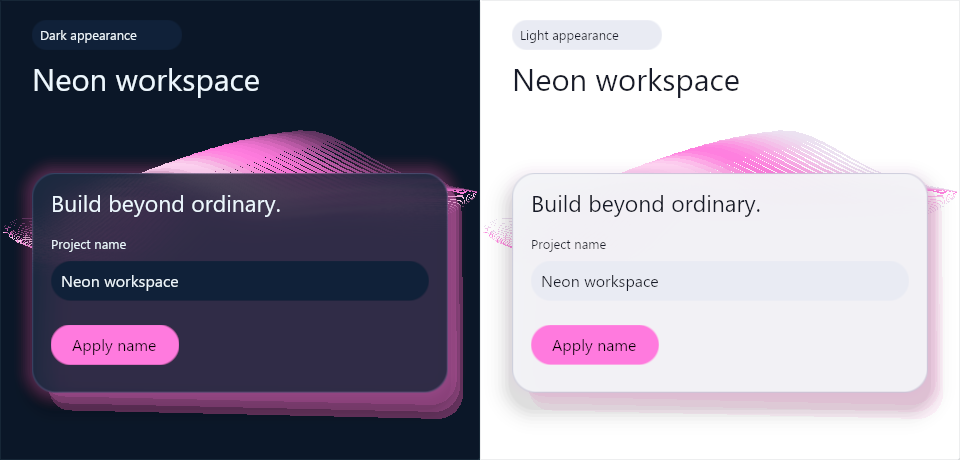
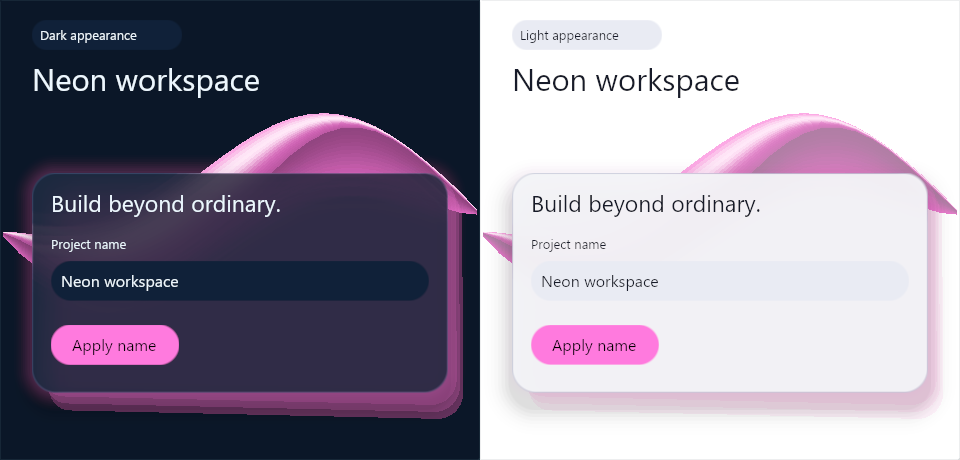
Shade SilkRibbon as a continuous folded satin surface

diff --git a/src/swirui/widgets/silk_ribbon.py b/src/swirui/widgets/silk_ribbon.py
@@ -15,30 +15,31 @@ def _mix(a: Color, b: Color, weight: float) -> Color:
                  a.b + (b.b - a.b) * weight, a.a + (b.a - a.a) * weight)
 
 
+_FACE_BANDS = 16
+
+
 @lru_cache(maxsize=12)
 def _weave(width: float, height: float) -> tuple[Path2D, ...]:
-    # Each thread is an x-monotone band. Neighbouring sinusoids change phase
-    # across the fabric, so the folds cross without self-intersecting paths.
-    paths = []
-    for strand in range(28):
-        v = strand / 27
-        edge = []
-        lower_edge = []
-        for column in range(33):
-            u = column / 32
-            phase = u * math.tau * .96 + v * 2.6
-            y = .49 + .23 * math.sin(phase) + .15 * math.sin(phase * 1.7 - 1.2) + .17 * (v - .5)
-            envelope = .05 + .95 * math.sin(math.pi * u) ** .75
-            y = .54 + envelope * (y - .54) - .18 * (u - .5)
-            thickness = (.007 + .018 * math.sin(math.pi * u) ** 2) * envelope
+    # Two faces share a curved fold. Neighbouring bands reuse the exact edge so
+    # the backdrop cannot leak through the weave at fractional display scales.
+    edges: list[list[Point]] = [[] for _ in range(2 * _FACE_BANDS + 1)]
+    for column in range(29):
+        u = column / 28
+        center = .51 + .25 * math.sin(math.tau * (u + .06)) - .11 * (u - .5)
+        half_width = .012 + .20 * math.sin(math.pi * u) ** .72
+        top, bottom = center - half_width, center + half_width
+        fold = center + half_width * .89 * math.sin(math.tau * (u - .09))
+        for row, edge in enumerate(edges):
+            t = row / _FACE_BANDS
+            y = top + t * (fold - top) if t <= 1 else fold + (t - 1) * (bottom - fold)
             edge.append(Point(width * u, height * y))
-            lower_edge.append(Point(width * u, height * (y + thickness)))
-        paths.append(Path2D.horizontal_band(tuple(edge), tuple(lower_edge)))
-    return tuple(paths)
+    rows = [tuple(edge) for edge in edges]
+    return tuple(Path2D.horizontal_band(upper, lower)
+                 for upper, lower in zip(rows[:-1], rows[1:], strict=True))
 
 
 class SilkRibbon(Widget):
-    """Decorative folded strands, colored by the inherited theme. No animation timer."""
+    """Folded satin with an accent-colored face and a shaded reverse."""
 
     def build_scene_node(self) -> SceneNode:
         bounds = self.bounds
@@ -48,13 +49,16 @@ class SilkRibbon(Widget):
             return node
         theme = self.effective_theme or FUTURE_DARK
         accent = theme.surface_color("accent")
-        shadow = _mix(theme.surface_color("raised"), accent, .11)
-        glint = _mix(accent, Color(1, 1, 1), .58)
+        shadow = _mix(_mix(accent, Color(0, 0, 0), .72), theme.surface_color("raised"), .20)
+        glint = _mix(accent, Color(1, 1, 1), .76)
         paths = _weave(bounds.width, bounds.height)
         for index, path in enumerate(paths):
-            v = index / (len(paths) - 1)
-            color = _mix(shadow, accent, math.sin(math.pi * v) ** 2)
-            color = _mix(color, glint, math.exp(-((v - .72) / .13) ** 2))
+            v = (index % _FACE_BANDS + .5) / _FACE_BANDS
+            if index < _FACE_BANDS:
+                color = _mix(shadow, accent, .95 - .60 * v)
+                color = _mix(color, glint, math.exp(-((v - .27) / .23) ** 2))
+            else:
+                color = _mix(shadow, accent, .08 + .64 * v ** 1.6)
             node.children.append(SceneNode(f"{self.key}:thread:{index}", SceneNodeKind.PATH,
                                            bounds, path=path, fill=color, hit_testable=False))
         return node

diff --git a/tests/test_windows_surface_interaction.py b/tests/test_windows_surface_interaction.py
@@ -9,6 +9,7 @@ from swirui import (
     App,
     Button,
     Panel,
+    SilkRibbon,
     SurfaceInteraction,
     SurfaceStyle,
     ThemeSurface,
@@ -17,6 +18,44 @@ from swirui import (
 )
 from swirui.platforms import PlatformEvent, PlatformEventKind
 from swirui.rendering import Rect, WgpuRenderer
+
+
+@pytest.mark.skipif(sys.platform != "win32", reason="Windows/wgpu required")
+def test_satin_fold_is_continuous_across_dark_and_light_gpu_frames():
+    renderer = WgpuRenderer()
+    app = App(renderer=renderer)
+    window = app.add_window(Window(width=640, height=320))
+    root = Panel(bounds=Rect(0, 0, 640, 320), theme=FUTURE_DARK)
+    ribbon = SilkRibbon(bounds=Rect(18.25, 22.5, 554.75, 240))
+    root.add(ribbon)
+    mount(window, root)
+    try:
+        app.start()
+        app.process_events()
+        context = renderer._contexts[window.native_handle.value]
+        for theme, accent in ((FUTURE_DARK, "#28DEB0"), (FUTURE_LIGHT, "#E67434")):
+            root.theme = theme.with_accent(accent)
+            app.render_pending(app._frame_schedulers[window].stats.last_frame_time + 1)
+            width, _, pixels = context.read_scene_rgba()
+            top = round(ribbon.bounds.y * window.scale)
+            bottom = round(ribbon.bounds.bottom * window.scale)
+            for fraction in (.23, .51, .74):
+                x = round((ribbon.bounds.x + fraction * ribbon.bounds.width) * window.scale)
+                column = [tuple(pixels[(y * width + x) * 4:(y * width + x) * 4 + 3])
+                          for y in range(top, bottom)]
+                background = column[0]
+                assert column[-1] == background
+                painted = [y for y, rgb in enumerate(column) if rgb != background]
+                assert len(painted) > 20
+                assert painted[-1] - painted[0] + 1 == len(painted)
+                colors = {column[y] for y in painted}
+                assert len(colors) >= 10
+                if theme is FUTURE_DARK:
+                    assert any(g - r > 60 for r, g, _ in colors)
+                else:
+                    assert any(r - g > 40 for r, g, _ in colors)
+    finally:
+        app.stop()
 
 
 @pytest.mark.skipif(sys.platform != "win32", reason="Windows/wgpu required")

diff --git a/tests/test_material_library.py b/tests/test_material_library.py
@@ -30,6 +30,11 @@ def test_ribbon_recolors_without_retessellation_or_pointer_targets():
     assert all(a.path is b.path for a, b in zip(initial.children, tinted.children, strict=True))
     assert initial.children[12].fill != tinted.children[12].fill
     assert all(not node.hit_testable for node in tinted.walk())
+    for first, second in zip(tinted.children[:-1], tinted.children[1:], strict=True):
+        # horizontal_band stores its lower edge in reverse winding order.
+        columns = len(first.path.points) // 2
+        assert first.path.points[columns:][::-1] == second.path.points[:columns]
+    assert sum(band.path.triangle_count for band in tinted.children) <= 1792
     ribbon.bounds = Rect(0, 0, 0, 104)
     assert not ribbon.build_scene_node().children
 

diff --git a/docs/development-0.2.md b/docs/development-0.2.md
@@ -17,7 +17,12 @@ For example, choose **Rose** in **Settings → Signature color**, then move
 edits. Select **Launch preview** again when you want to restore the sample to
 the current project name. Closing the comparison leaves Studio open.
 
-![The dark and light forms after applying the same rose accent and rounded corners in Studio](screenshots/studio-comparison.png)
+![A rose satin ribbon folding behind dark and light glass cards with rounded corners](screenshots/studio-comparison.png)
+
+The ribbon behind each card has two faces. A narrow highlight follows the
+fold into a shaded reverse. To use it in your own window, add a `SilkRibbon`
+to a themed panel before adding the controls you want in front. Changing the
+panel's accent recolors the ribbon and reuses its existing geometry.
 
 This 960 × 460 capture is a direct readback of the Windows wgpu frame on AMD
 Radeon graphics with DX12. To reproduce it from the same checkout, run

diff --git a/README.md b/README.md
@@ -32,6 +32,8 @@ material, accent and corners while the comparison is open. Select **Save
 theme…** to write both appearances to one JSON file. To try them outside
 Studio, run `python -m swirui preview-theme studio-theme.json` from the
 folder where you saved it. **Copy theme JSON** also exports to the clipboard.
+The `SilkRibbon` behind each preview card now has a continuous satin fold.
+Its highlight and shaded reverse follow your accent when you switch themes.
 Text fields in the preview and in your own apps support mouse drag selection.
 On Windows, Shift+click extends the selection from its original anchor.
 Use Ctrl+Left or Ctrl+Right to move by word in a text field. Hold Shift to
